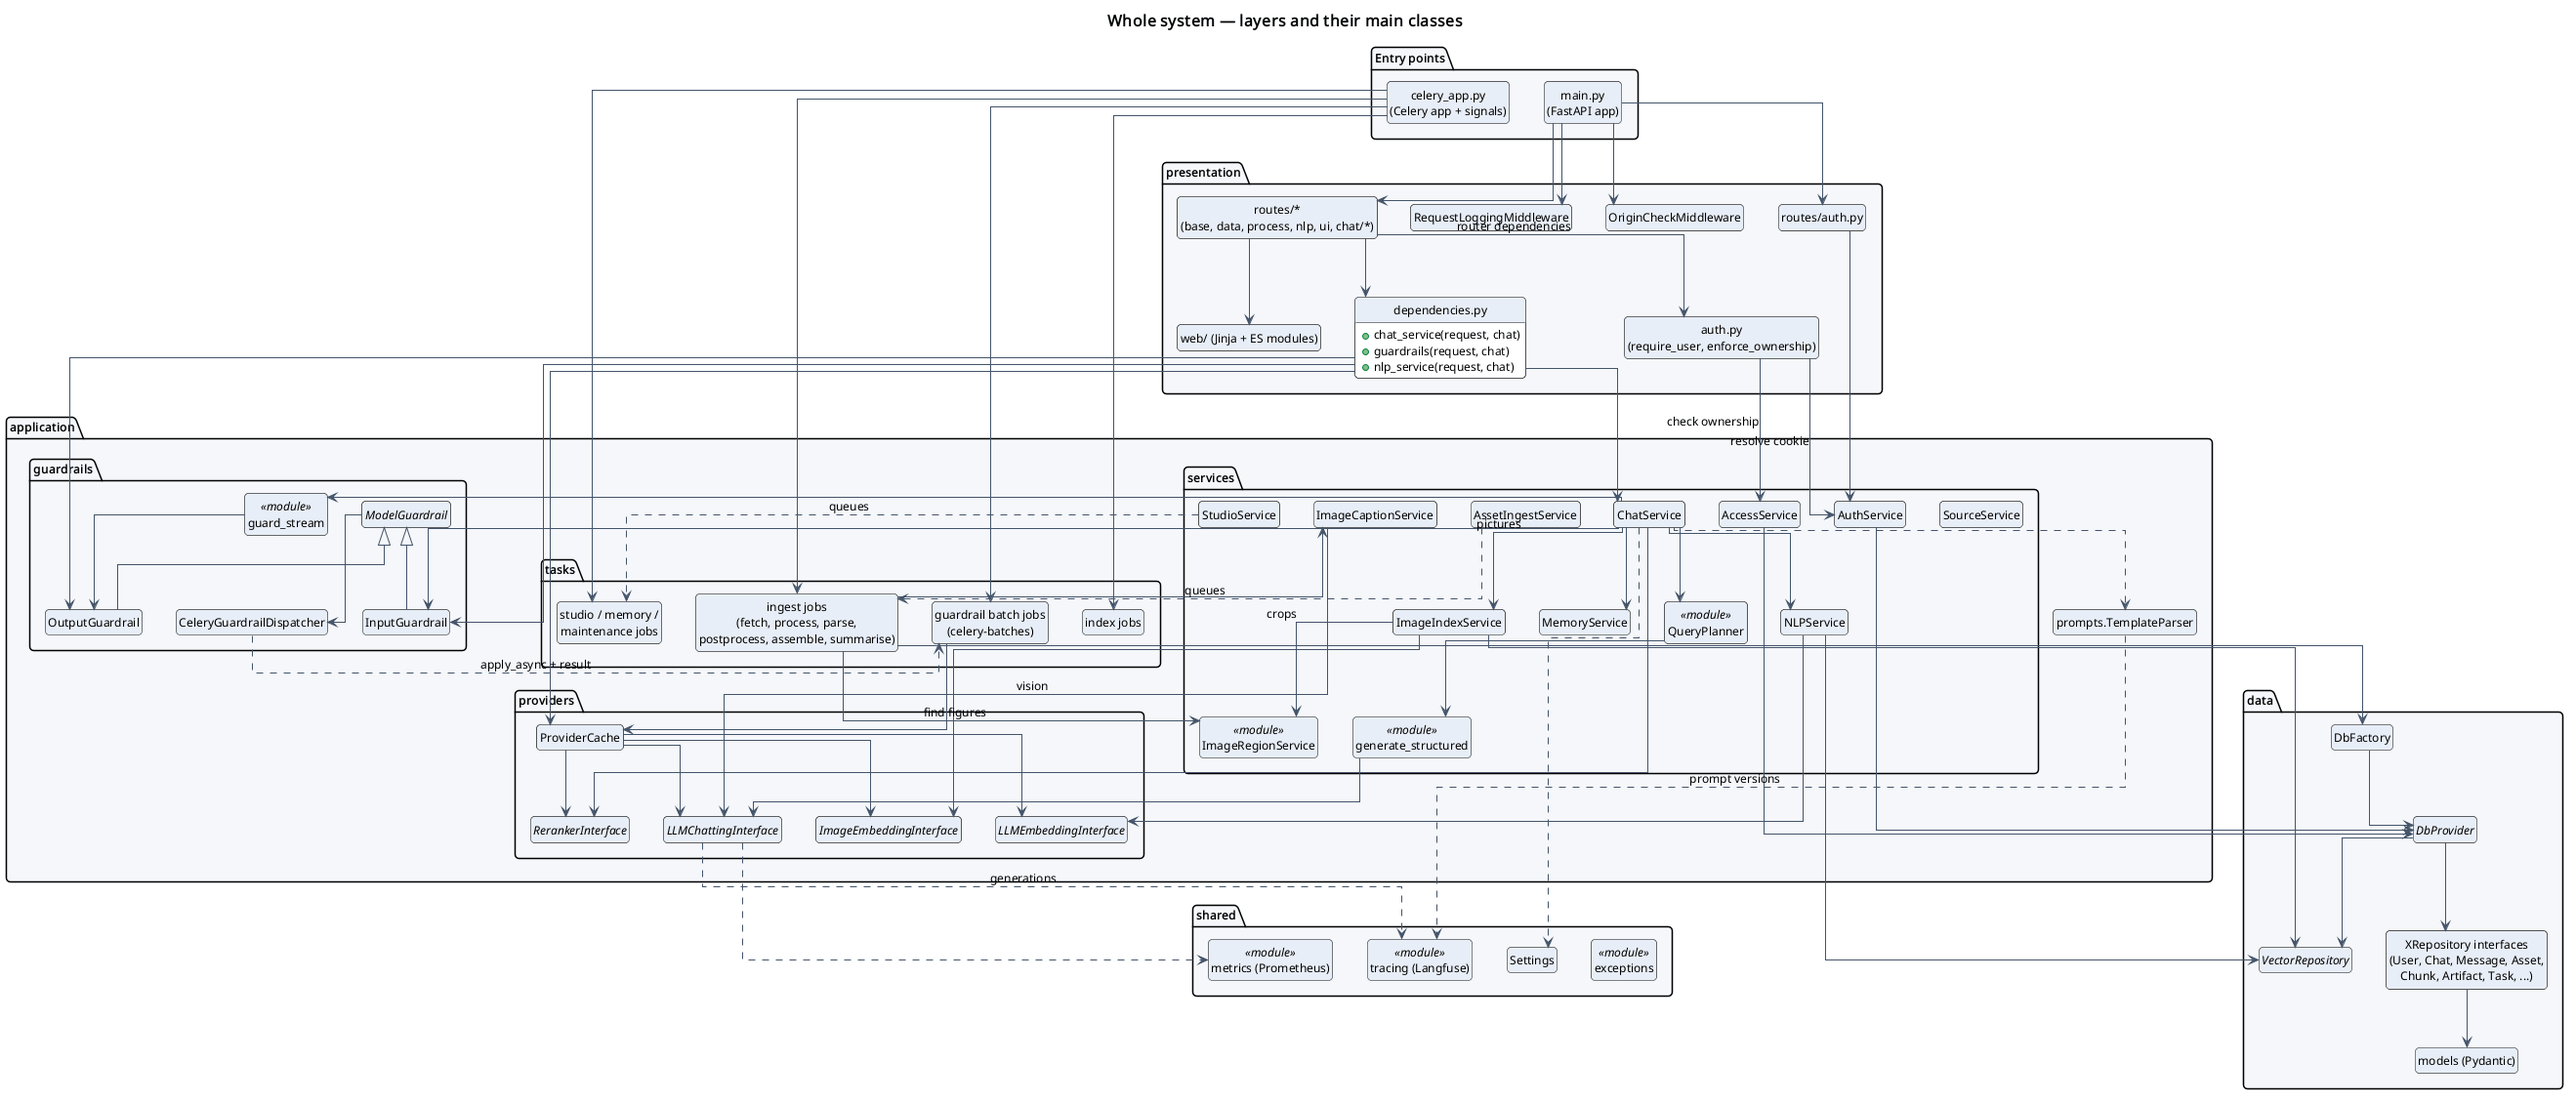
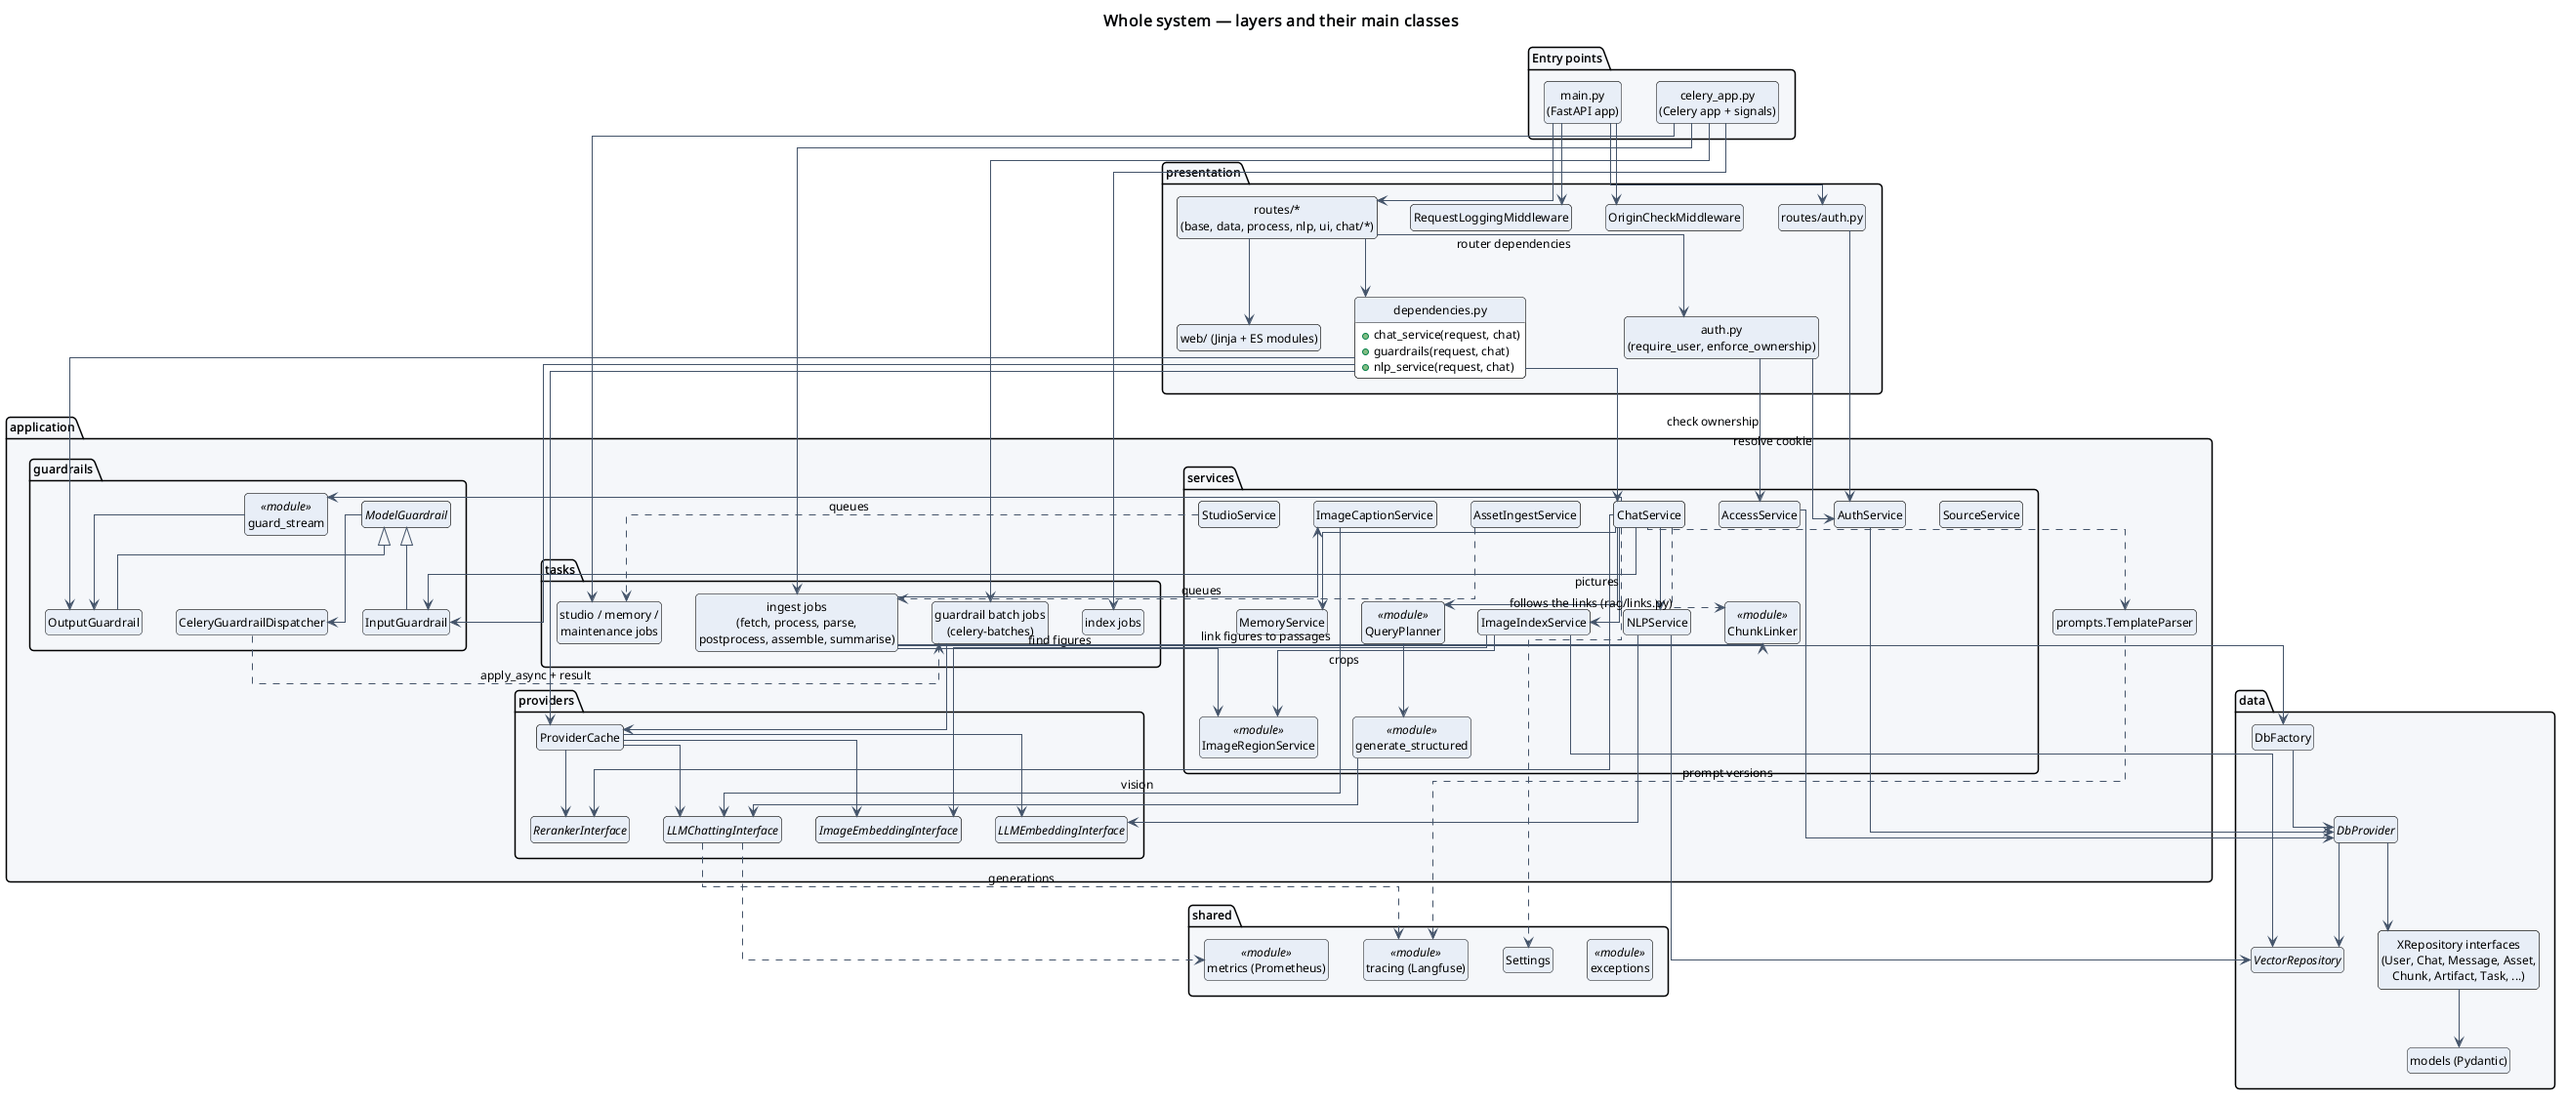
UML: links in the multimodal diagrams

diff --git a/software_engineering/README.md b/software_engineering/README.md
@@ -55,8 +55,8 @@ different jar. `_style.iuml` holds the shared look.
 | Studio generation | [studio_generation](3_sequence_diagrams/studio_generation.png) |
 | `/memory` | [memory](3_sequence_diagrams/memory.png) |
 | Langfuse tracing and prompt versions | [langfuse_tracing](3_sequence_diagrams/langfuse_tracing.png) |
-| Pictures at ingest: find, caption, chunk, embed | [image_ingest](3_sequence_diagrams/image_ingest.png) |
-| A question with pictures, with or without vision | [image_query_answer](3_sequence_diagrams/image_query_answer.png) |
+| Pictures at ingest: find, caption, chunk, link, embed | [image_ingest](3_sequence_diagrams/image_ingest.png) |
+| A question with pictures: both indexes, linked partners, with or without vision | [image_query_answer](3_sequence_diagrams/image_query_answer.png) |
 
 ## 4. Class diagrams — `4_class_diagrams/`
 
@@ -68,4 +68,4 @@ different jar. `_style.iuml` holds the shared look.
 | Data tier: providers, repositories, models | [data_repositories](4_class_diagrams/data_repositories.png) |
 | Guardrails (LangChain middleware) and Celery jobs | [guardrails_and_tasks](4_class_diagrams/guardrails_and_tasks.png) |
 | Accounts: models, repositories, services, login layer | [accounts](4_class_diagrams/accounts.png) |
-| Pictures: embedders, index, captions, regions, vision gate | [multimodal](4_class_diagrams/multimodal.png) |
+| Pictures: embedders, index, captions, regions, links, vision gate | [multimodal](4_class_diagrams/multimodal.png) |
